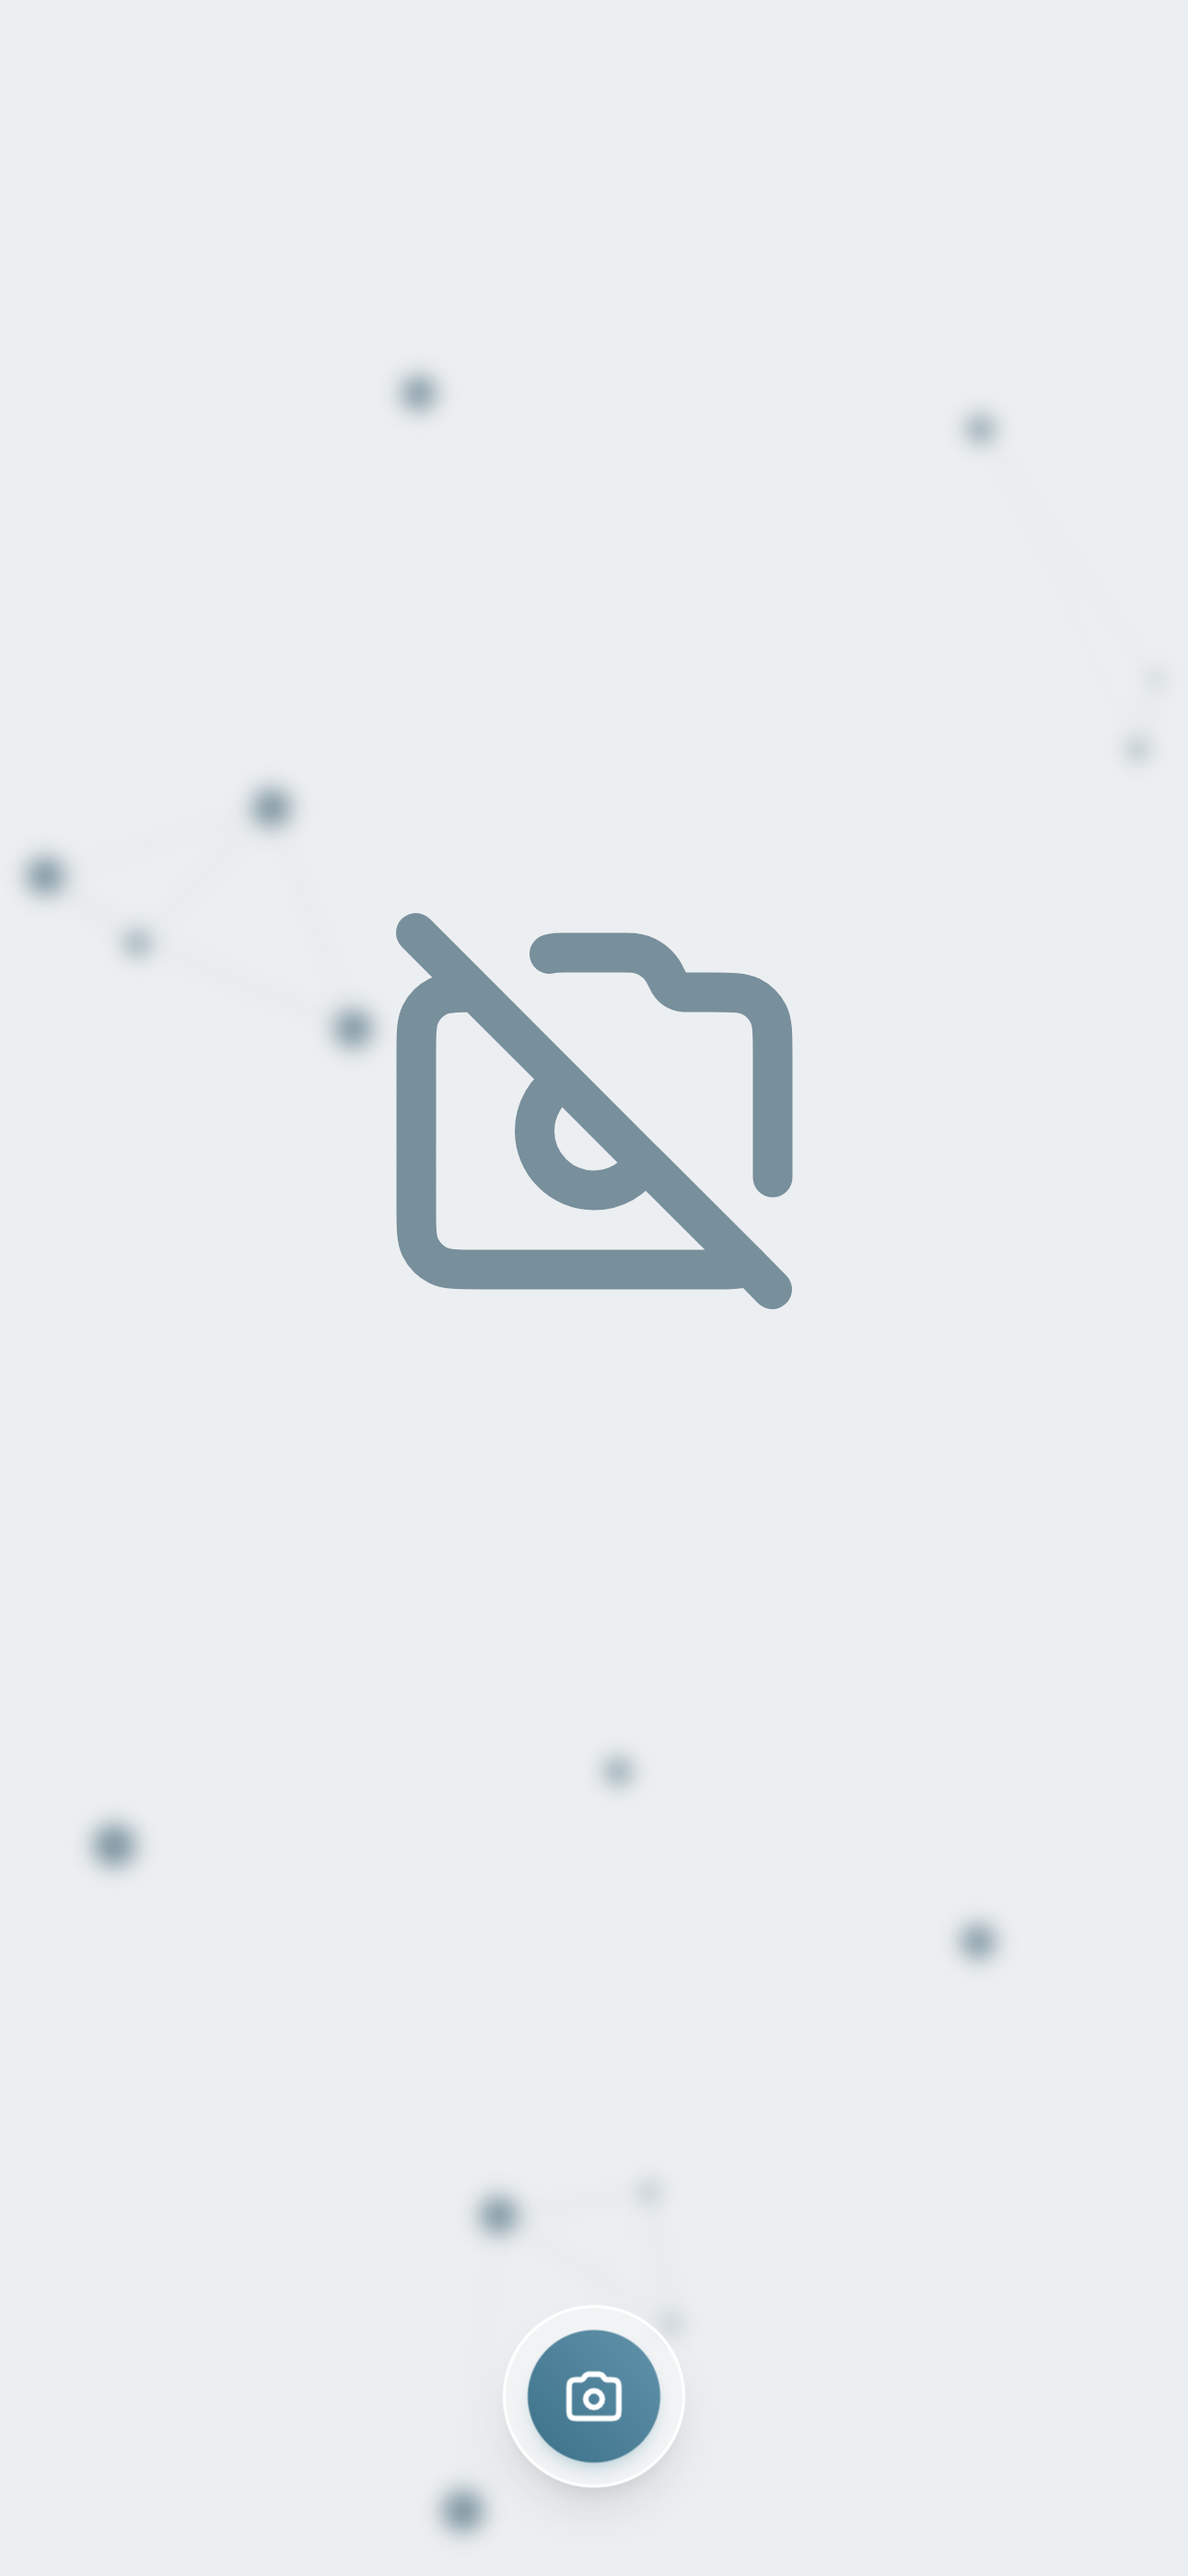
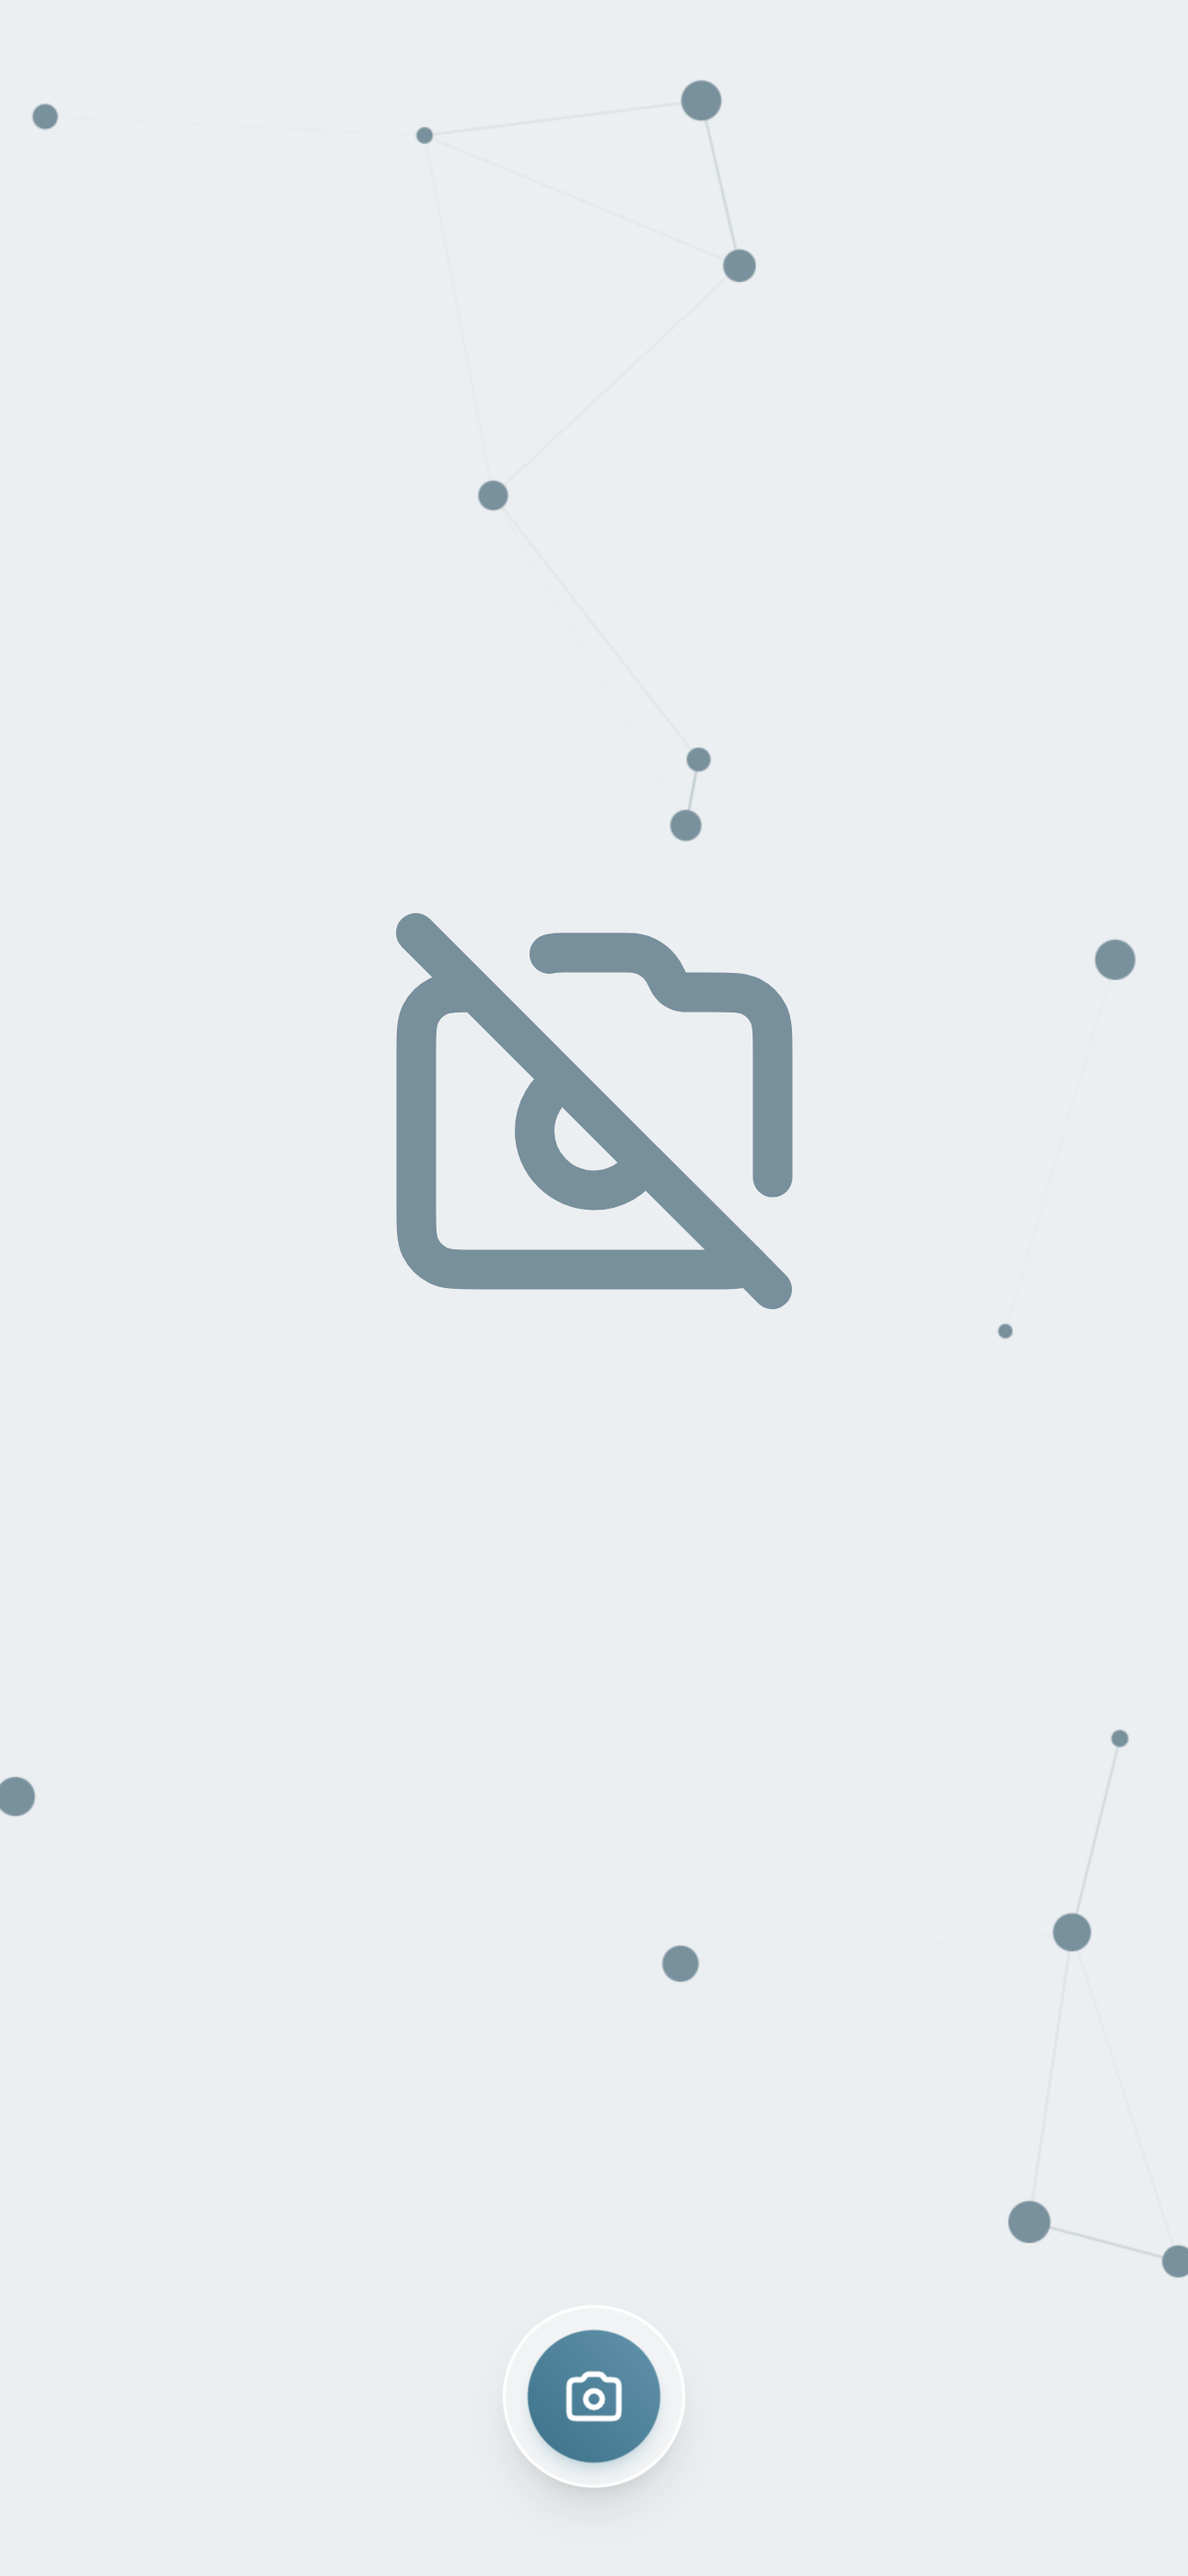
refactor: Removed blur

diff --git a/src/components/BarcodeScanner.jsx b/src/components/BarcodeScanner.jsx
@@ -348,7 +348,7 @@ const BarcodeScanner = () => {
   }, []);
 
   return (
-    <div className="relative w-full h-dvh grid grid-cols-1 gap-6 place-items-center overflow-hidden backdrop-blur-sm">
+    <div className="relative w-full h-dvh grid grid-cols-1 gap-6 place-items-center overflow-hidden backdrop-blur-none">
       <div className="flex justify-center items-center relative">
         <img
           src={`${process.env.VITE_APP_BASE_PATH}images/ic-camera-closed.svg`}
